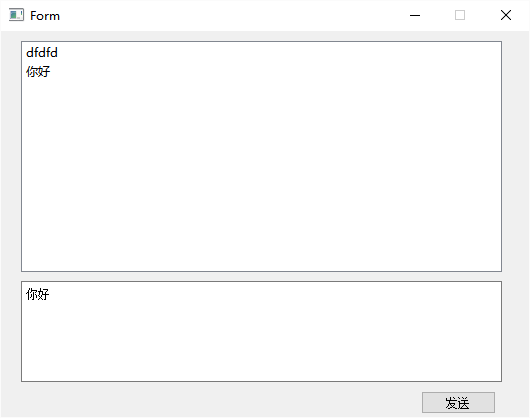
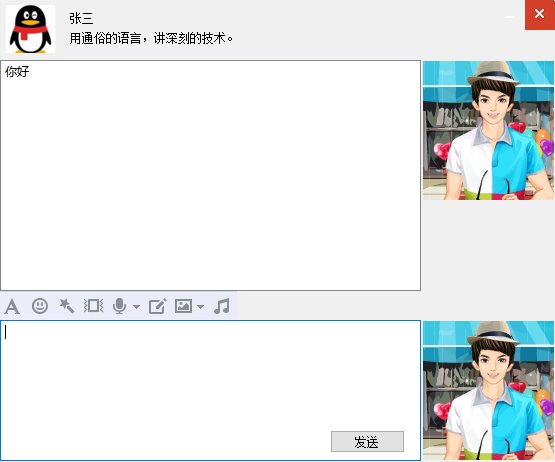
beautify contact page

Changed region(s): [[0.0, 0.622, 1.0, 1.0], [0.0, 0.0, 1.0, 0.4354], [0.9358, 0.0, 1.0, 0.0933]]

diff --git a/contact.cpp b/contact.cpp
@@ -4,18 +4,37 @@
 #include <QKeyEvent>
 #include <QDebug>
 #include <QFile>
+#include "mytitlebar.h"
 
 Contact::Contact(QWidget *parent) :
     QWidget(parent),
     ui(new Ui::Contact)
 {
+    MyTitleBar *m_titleBar = new MyTitleBar(this);
+    connect( m_titleBar, SIGNAL(signalButtonMinClicked()), this, SLOT(onButtonMinClicked()));
+    connect( m_titleBar, SIGNAL(signalButtonCloseClicked()), this, SLOT(onButtonCloseClicked()));
+
+    // FramelessWindowHint属性设置窗口去除边框;
+    // WindowMinimizeButtonHint 属性设置在窗口最小化时，点击任务栏窗口可以显示出原窗口;
+    this->setWindowFlags(Qt::FramelessWindowHint | Qt::WindowMinimizeButtonHint);
+
     receiver = new QUdpSocket(this);
-    receiver->bind(23456, QUdpSocket::ShareAddress);
+    receiver->bind(12345, QUdpSocket::ShareAddress);
     connect(receiver, &QUdpSocket::readyRead, this, &Contact::processPendingDatagram);
 
     ui->setupUi(this);
-
+    ui->label->setPixmap(QPixmap(":/Resources/LoginWindow/aaa.png"));
+    ui->label_2->setPixmap(QPixmap(":/Resources/LoginWindow/aaa.png"));
+    ui->label_3->setPixmap(QPixmap(":/Resources/LoginWindow/land.png"));
+    ui->label_4->setPixmap(QPixmap(":/Resources/LoginWindow/HeadImage_small.png"));
     sender = new QUdpSocket(this);
+
+    //bar
+    m_titleBar->move(0, 0);
+    m_titleBar->raise();
+    m_titleBar->setBackgroundColor(144, 144, 144 , true);
+    m_titleBar->setButtonType(MIN_BUTTON);
+    m_titleBar->setTitleWidth(this->width());
 }
 
 Contact::~Contact()
@@ -39,7 +58,7 @@ void Contact::on_pushButton_clicked()
     QByteArray datagram = ui->textEdit->toPlainText().toUtf8();
     ui->listWidget->addItem(datagram);
     sender->writeDatagram(datagram.data(), datagram.size(),
-                          QHostAddress("127.0.0.1"), 12345);
+                          QHostAddress("127.0.0.1"), 23456);
     if (data.open(QFile::WriteOnly | QIODevice::Append)) {
         QTextStream out(&data);
         out << datagram + "\r\n" ;
@@ -71,3 +90,20 @@ void Contact::processPendingDatagram()
     data.close();
 }
 
+void Contact::onButtonCloseClicked()
+{
+    close();
+}
+
+
+void Contact::onButtonMinClicked()
+{
+    if (Qt::Tool == (windowFlags() & Qt::Tool))
+    {
+        hide();    //设置了Qt::Tool 如果调用showMinimized()则窗口就销毁了
+    }
+    else
+    {
+        showMinimized();
+    }
+}

diff --git a/contact.h b/contact.h
@@ -19,6 +19,8 @@ private slots:
     void on_pushButton_clicked();
     void processPendingDatagram();
     void keyPressEvent(QKeyEvent  *event);
+    void onButtonMinClicked();
+    void onButtonCloseClicked();
 
 private:
     QUdpSocket *receiver;
